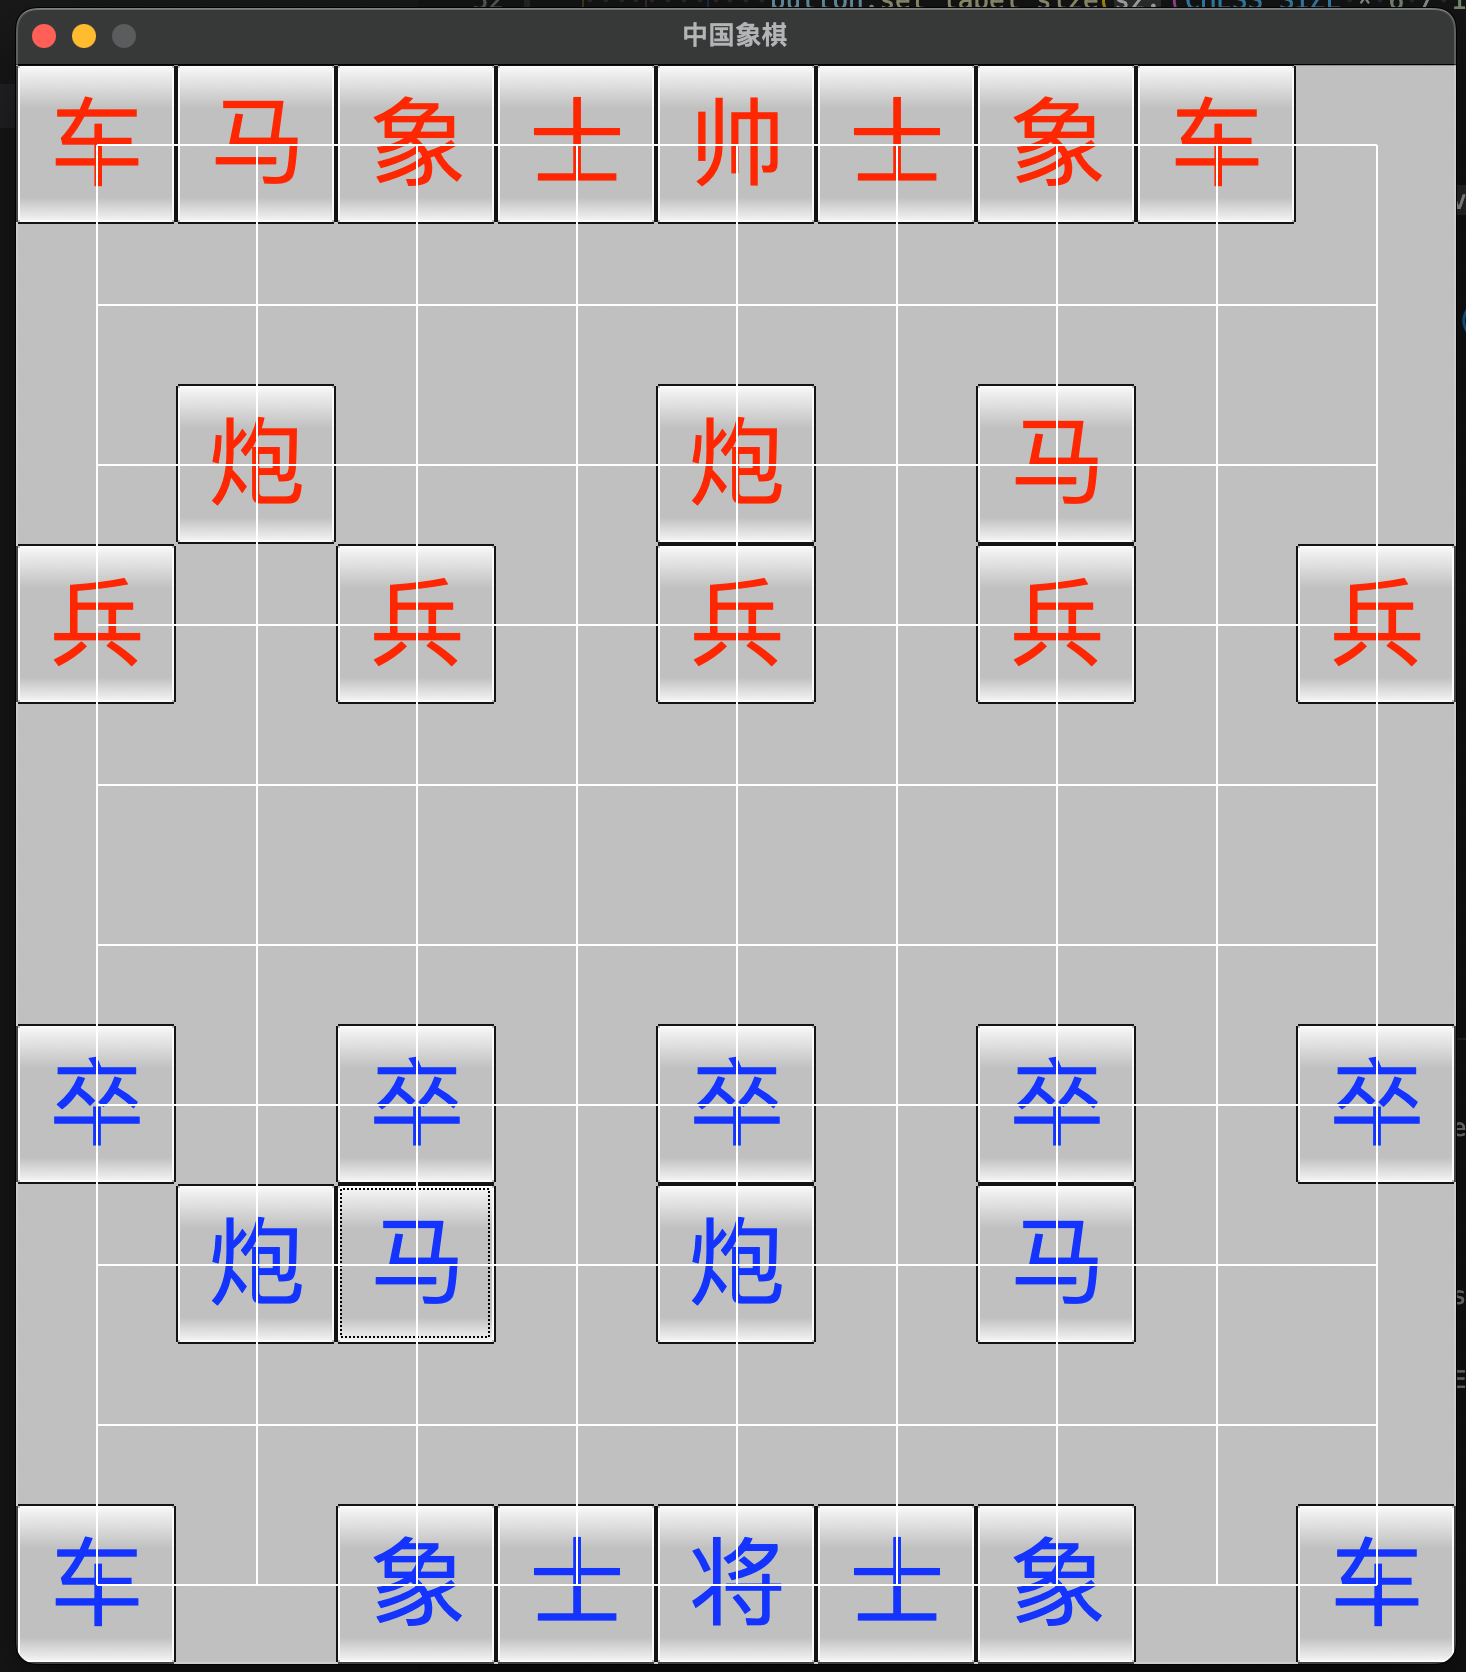
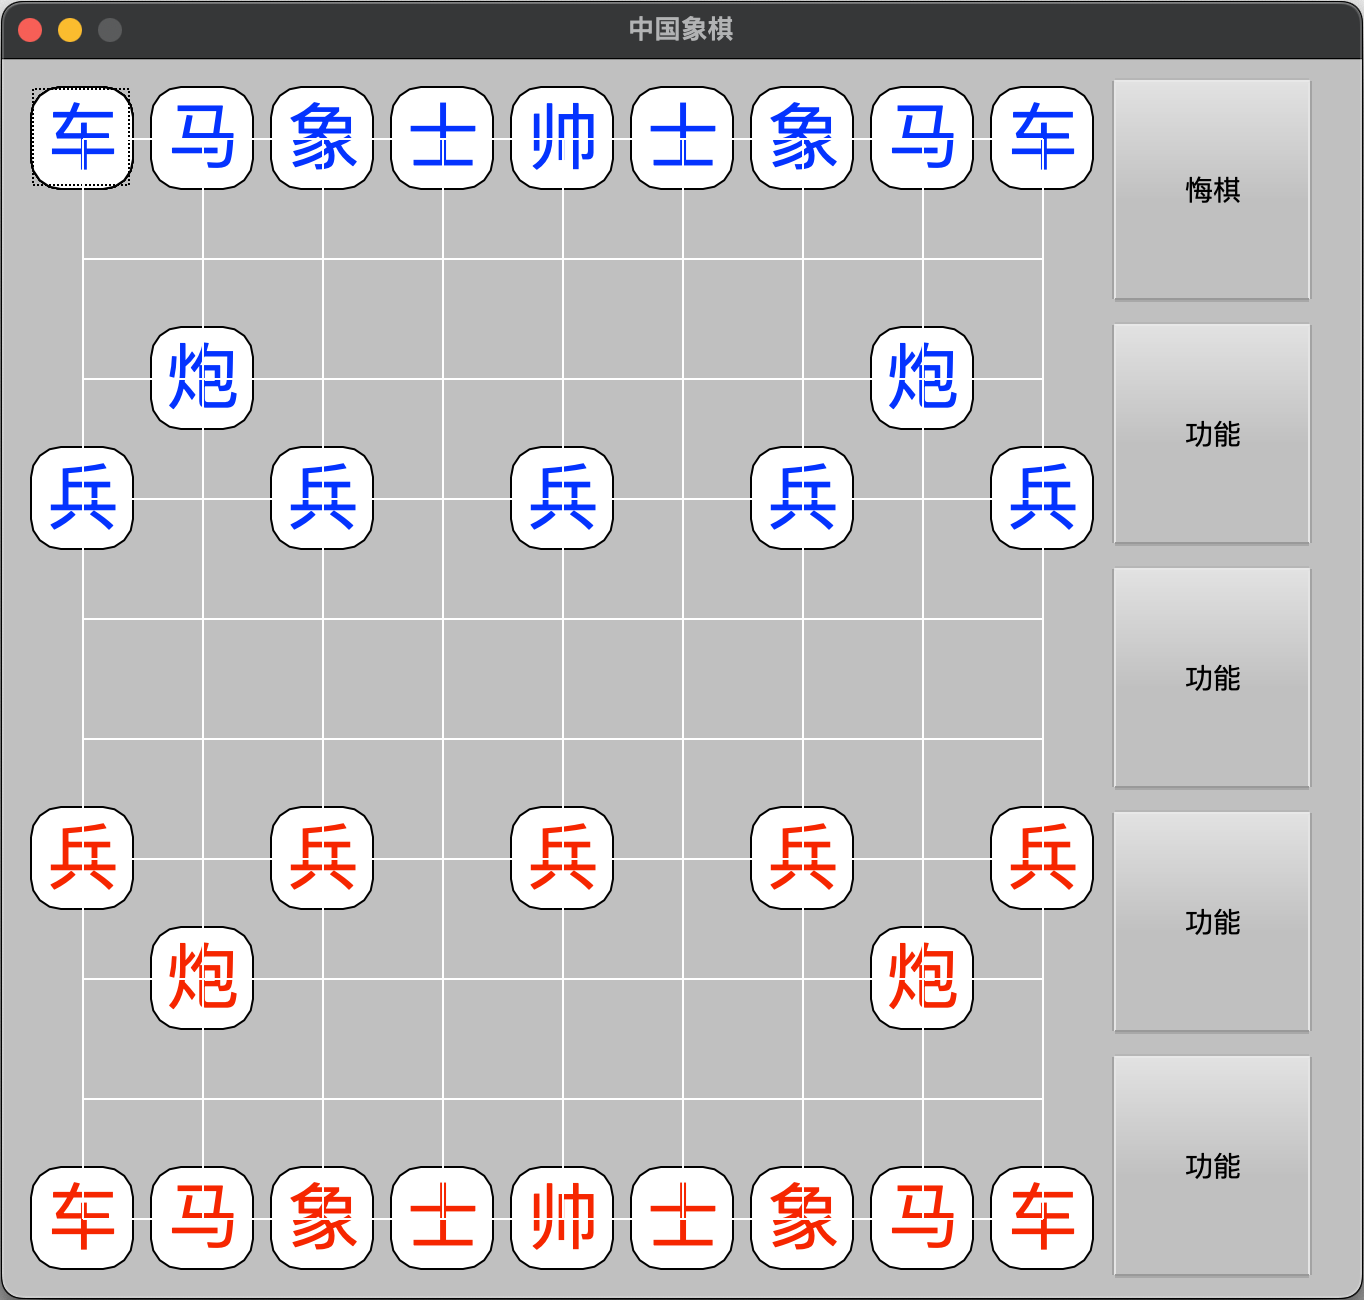
修改截图 优化代码逻辑

diff --git a/src/main.rs b/src/main.rs
@@ -2,6 +2,7 @@ mod ui {
     use fltk::{app, button::Button, draw, enums::*, group::*, prelude::*, window::*};
 
     use crate::game;
+
     const CHESS_SIZE: i32 = 60;
     pub fn ui(mut game: game::ChineseChess) {
         let app = app::App::default().with_scheme(app::Scheme::Oxy);
@@ -13,13 +14,13 @@ mod ui {
             CHESS_SIZE * 10 + pand * 2,
             "中国象棋",
         );
-        let mut chess_window = Window::new(
-            pand,
-            pand,
-            CHESS_SIZE * 10 - CHESS_SIZE + CHESS_SIZE * 2,
-            CHESS_SIZE * 10,
-            "中国象棋",
-        );
+
+        let mut chess_window = Window::default()
+            .with_pos(pand, pand)
+            .with_size(
+                CHESS_SIZE * 10 - CHESS_SIZE + CHESS_SIZE * 2,
+                CHESS_SIZE * 10,
+            );
 
         let mut flex = Flex::default_fill();
 
@@ -59,8 +60,12 @@ mod ui {
                     CHESS_SIZE - 2 * padding,
                     chess.name_str(),
                 );
-                button.set_label_color(if chess.color { Color::Red } else { Color::Blue });
-                button.set_label_size((CHESS_SIZE * 6 / 10) as i32);
+                button.set_label_color(if chess.color.is_red() {
+                    Color::Red
+                } else {
+                    Color::Blue
+                });
+                button.set_label_size(CHESS_SIZE * 6 / 10);
                 button.set_frame(FrameType::RoundedBox);
                 button.set_selection_color(Color::DarkBlue);
                 button.set_color(Color::White);
@@ -72,7 +77,7 @@ mod ui {
         chess_window.handle(move |w, event| {
             if let Event::Push = event {
                 let (x, y) = app::event_coords();
-                dbg!("click {}, {}", x, y);
+                dbg!(x, y);
                 // 点击棋盘
                 game.click(&game::Position {
                     x: x / CHESS_SIZE,
@@ -111,7 +116,7 @@ fn main() {
 }
 
 mod game {
-
+    use crate::game::Turn::{Black, Red};
     use std::fmt;
     use ChessType::*;
 
@@ -134,9 +139,22 @@ mod game {
     #[derive(Debug)]
     pub struct Chess {
         chess_type: ChessType,
-        pub color: bool,
+        pub color: Turn,
         pub position: Position,
     }
+
+    #[derive(Debug, Clone, PartialEq, Eq)]
+    pub enum Turn {
+        Red,
+        Black,
+    }
+
+    impl Turn {
+        pub fn is_red(&self) -> bool {
+            self == &Red
+        }
+    }
+
     impl Chess {
         fn can_move_to(&self, pos: &Position, game: &ChineseChess) -> bool {
             if let Some(chess) = game.get_chess(pos) {
@@ -257,9 +275,11 @@ mod game {
                 }
                 兵 => {
                     // 兵:直线移动,不能越过其他棋子
-                    if self.color && y1 < 5 || !self.color && y1 > 4 {
+                    if self.color.is_red() && y1 < 5 || (!self.color.is_red() && y1 > 4) {
                         // 没过河,只能向前
-                        x1 == x2 && (self.color && y2 == y1 + 1 || !self.color && y2 == y1 - 1)
+                        x1 == x2
+                            && ((self.color.is_red() && y2 == y1 + 1)
+                                || (!self.color.is_red() && y2 == y1 - 1))
                     } else {
                         // 过了河,可以左右
                         (x1 == x2 && (y2 == y1 + 1 || y2 == y1 - 1))
@@ -269,7 +289,7 @@ mod game {
             }
         }
         fn in_nine_palace(&self, x: i32, y: i32) -> bool {
-            if self.color {
+            if self.color.is_red() {
                 // 红方,九宫格在底部两个区域
                 (3..=5).contains(&x) && (0..=2).contains(&y)
             } else {
@@ -295,7 +315,7 @@ mod game {
             let (chess_type, color, posi) = value;
             Chess {
                 chess_type,
-                color,
+                color: if color { Turn::Red } else { Turn::Black },
                 position: Position {
                     x: posi.0,
                     y: posi.1,
@@ -305,17 +325,22 @@ mod game {
     }
 
     pub struct ChineseChess {
-        pub chessmen: Vec<Chess>,                 // 棋盘上的棋子
-        selected: Option<usize>,                  // 当前选中的棋子序号
-        turn: bool,                               // 当前走棋方
-        history: Vec<(bool, Position, Position)>, // 历史记录 方便撤回
+        pub chessmen: Vec<Chess>, // 棋盘上的棋子
+        selected: Option<usize>,  // 当前选中的棋子序号
+        turn: Turn,
+        // 当前走棋方
+        history: Vec<(Turn, Position, Position)>, // 历史记录 方便撤回
     }
     impl ChineseChess {
         fn has_chess(&self, pos: &Position) -> bool {
-            self.chessmen.iter().any(|c| c.position == *pos)
+            self.chessmen
+                .iter()
+                .any(|c| c.position == *pos)
         }
         fn get_chess(&self, pos: &Position) -> Option<&Chess> {
-            self.chessmen.iter().find(|c| c.position == *pos)
+            self.chessmen
+                .iter()
+                .find(|c| c.position == *pos)
         }
         pub fn click(&mut self, pos: &Position) {
             let selected = self.select(pos);
@@ -324,7 +349,11 @@ mod game {
             }
         }
         fn select(&mut self, pos: &Position) -> bool {
-            for (i, chess) in self.chessmen.iter().enumerate() {
+            for (i, chess) in self
+                .chessmen
+                .iter()
+                .enumerate()
+            {
                 if chess.position == *pos && chess.color == self.turn {
                     self.selected = Some(i);
                     return true;
@@ -335,7 +364,11 @@ mod game {
         fn move_to(&mut self, pos: &Position) {
             // eat chess
             let mut eat_chess = None;
-            for (i, chess) in self.chessmen.iter().enumerate() {
+            for (i, chess) in self
+                .chessmen
+                .iter()
+                .enumerate()
+            {
                 if chess.position == *pos && chess.color != self.turn {
                     eat_chess = Some(i);
                 }
@@ -344,14 +377,23 @@ mod game {
             if let Some(selected) = self.selected {
                 let chess = &self.chessmen[selected];
                 if chess.can_move_to(&pos, &self) {
-                    self.history
-                        .push((self.turn, chess.position.clone(), pos.clone()));
+                    self.history.push((
+                        self.turn.clone(),
+                        chess
+                            .position
+                            .clone(),
+                        pos.clone(),
+                    ));
                     let chess = &mut self.chessmen[selected];
                     chess.position = pos.clone();
-                    self.turn = !self.turn; // 改变走棋方
+                    self.turn = match self.turn {
+                        Red => Black,
+                        Black => Red,
+                    }; // 改变走棋方
                     self.selected = None;
                     if let Some(idx) = eat_chess {
-                        self.chessmen.remove(idx);
+                        self.chessmen
+                            .remove(idx);
                     }
                     return;
                 }
@@ -365,48 +407,25 @@ mod game {
     }
     impl Default for ChineseChess {
         fn default() -> ChineseChess {
+            #[rustfmt::skip]
             let chessmen: Vec<Chess> = vec![
                 // 红方棋子
-                (车, true, (0, 0)),
-                (车, true, (8, 0)),
-                (马, true, (7, 0)),
-                (马, true, (1, 0)),
-                (象, true, (6, 0)),
-                (象, true, (2, 0)),
-                (士, true, (5, 0)),
-                (士, true, (3, 0)),
-                (帅, true, (4, 0)),
-                (炮, true, (1, 2)),
-                (炮, true, (7, 2)),
-                (兵, true, (6, 3)),
-                (兵, true, (4, 3)),
-                (兵, true, (2, 3)),
-                (兵, true, (0, 3)),
-                (兵, true, (8, 3)),
+                (车, false, (0, 0)), (车, false, (8, 0)), (马, false, (7, 0)), (马, false, (1, 0)),
+                (象, false, (6, 0)), (象, false, (2, 0)), (士, false, (5, 0)), (士, false, (3, 0)),
+                (帅, false, (4, 0)), (炮, false, (1, 2)), (炮, false, (7, 2)), (兵, false, (6, 3)),
+                (兵, false, (4, 3)), (兵, false, (2, 3)), (兵, false, (0, 3)), (兵, false, (8, 3)),
                 // 黑方棋子
-                (车, false, (0, 9)),
-                (车, false, (8, 9)),
-                (马, false, (7, 9)),
-                (马, false, (1, 9)),
-                (象, false, (6, 9)),
-                (象, false, (2, 9)),
-                (士, false, (5, 9)),
-                (士, false, (3, 9)),
-                (帅, false, (4, 9)),
-                (炮, false, (1, 7)),
-                (炮, false, (7, 7)),
-                (兵, false, (6, 6)),
-                (兵, false, (4, 6)),
-                (兵, false, (2, 6)),
-                (兵, false, (0, 6)),
-                (兵, false, (8, 6)),
+                (车, true, (0, 9)), (车, true, (8, 9)), (马, true, (7, 9)), (马, true, (1, 9)),
+                (象, true, (6, 9)), (象, true, (2, 9)), (士, true, (5, 9)), (士, true, (3, 9)),
+                (帅, true, (4, 9)), (炮, true, (1, 7)), (炮, true, (7, 7)), (兵, true, (6, 6)),
+                (兵, true, (4, 6)), (兵, true, (2, 6)), (兵, true, (0, 6)), (兵, true, (8, 6)),
             ]
             .into_iter()
             .map(Into::into)
             .collect();
             return ChineseChess {
                 chessmen,
-                turn: true,
+                turn: Turn::Red,
                 history: vec![],
                 selected: None,
             };
